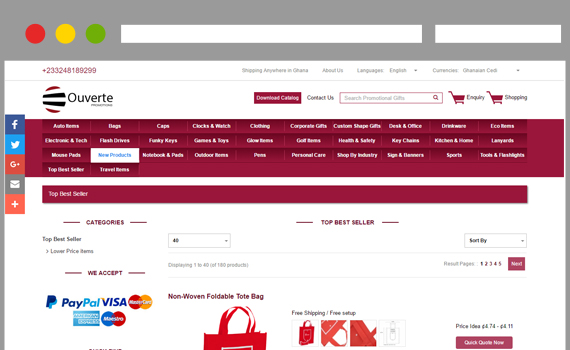
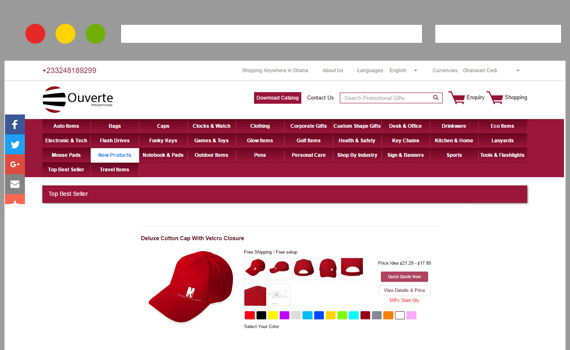
Edited displayed images

diff --git a/index.html b/index.html
@@ -517,12 +517,13 @@
 <!-- Values tab starts here -->
 
 <!-- Our Clients Starts here-->
-<section class="mbr-section mbr-section--relative mbr-parallax-background" id="msg-box5-46" style="background-image: url(assets/images/576A6268.JPG);">
-    <div class="mbr-overlay" style="opacity: 0.5; background-color: rgb(0, 168, 133);"></div>
+<section class="mbr-section mbr-section--relative mbr-parallax-background" id="msg-box5-46">
+    <!-- <div class="mbr-overlay" style="opacity: 0.5; background-color: rgb(0, 168, 133);"></div> -->
     <div class="mbr-section__container">
         <div class="row">
             <div class="mbr-box mbr-box--fixed mbr-box--adapted">
                 <div class="mbr-box__magnet mbr-box__magnet--top-right mbr-section__left col-sm-6">
+                    <img class="product_display" src="assets/images/576A6268.JPG" alt="">
                 </div>
                 <div class="mbr-box__magnet mbr-class-mbr-box__magnet--center-left col-sm-6 mbr-section__right">
                     <div class="mbr-section__container mbr-section__container--middle">
@@ -535,17 +536,17 @@
                                 </div>
                                 <div class="brand_others">
                                     <div class="brand_img"><img src="assets/images/brands_4.png"></div>
-                                    <div class="brand_img"><img src="assets/images/brands_5.png"></div>
+                                    <div class="brand_img"><img src="assets/images/brands_10.png"></div>
                                     <div class="brand_img"><img src="assets/images/brands_6.png"></div>     
                                 </div>
                                 <div class="brand_others">
                                     <div class="brand_img"><img src="assets/images/brands_7.png"></div>
-                                    <div class="brand_img"><img src="assets/images/brands_8.png"></div>
+                                    <div class="brand_img"><img src="assets/images/brands_11.png"></div>
+
                                     <div class="brand_img"><img src="assets/images/brands_9.png"></div>     
                                 </div>
                                 <div class="barnd_bottom">
-                                    <div class="brand_img"><img src="assets/images/brands_10.png"></div>
-                                    <div class="brand_img"><img src="assets/images/brands_11.png"></div>
+                                    
                                 </div>
                         </div>
                     </div>

diff --git a/assets/mobirise/css/style.css b/assets/mobirise/css/style.css
@@ -1479,6 +1479,11 @@ h2,h3,h4 {
   width: 120px !important;
   height: 120px;
 }
+.mbr-box__magnet .product_display {
+  width: 1050px !important;
+  height: 750px;
+  margin-left: -135px;
+}
 .mbr-box__container {
   height: 50%;
 }
